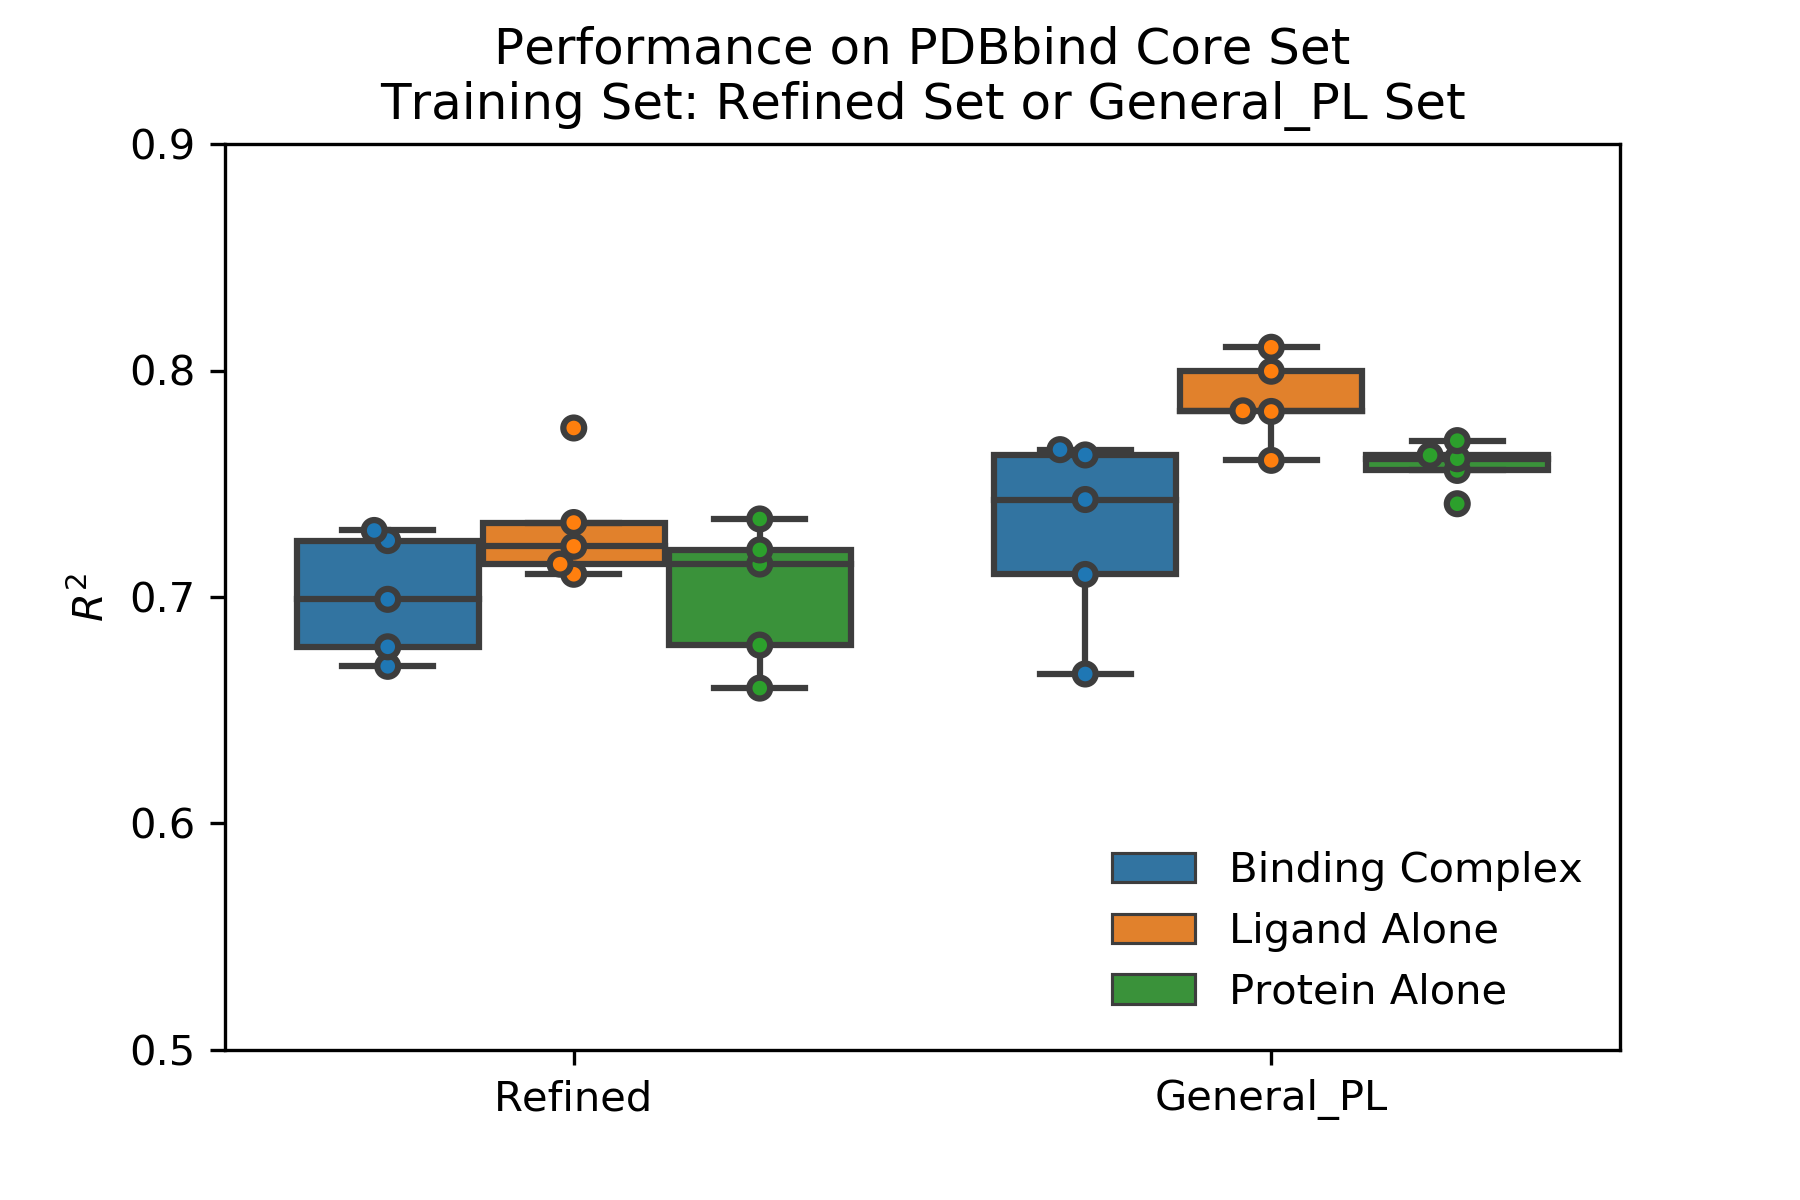
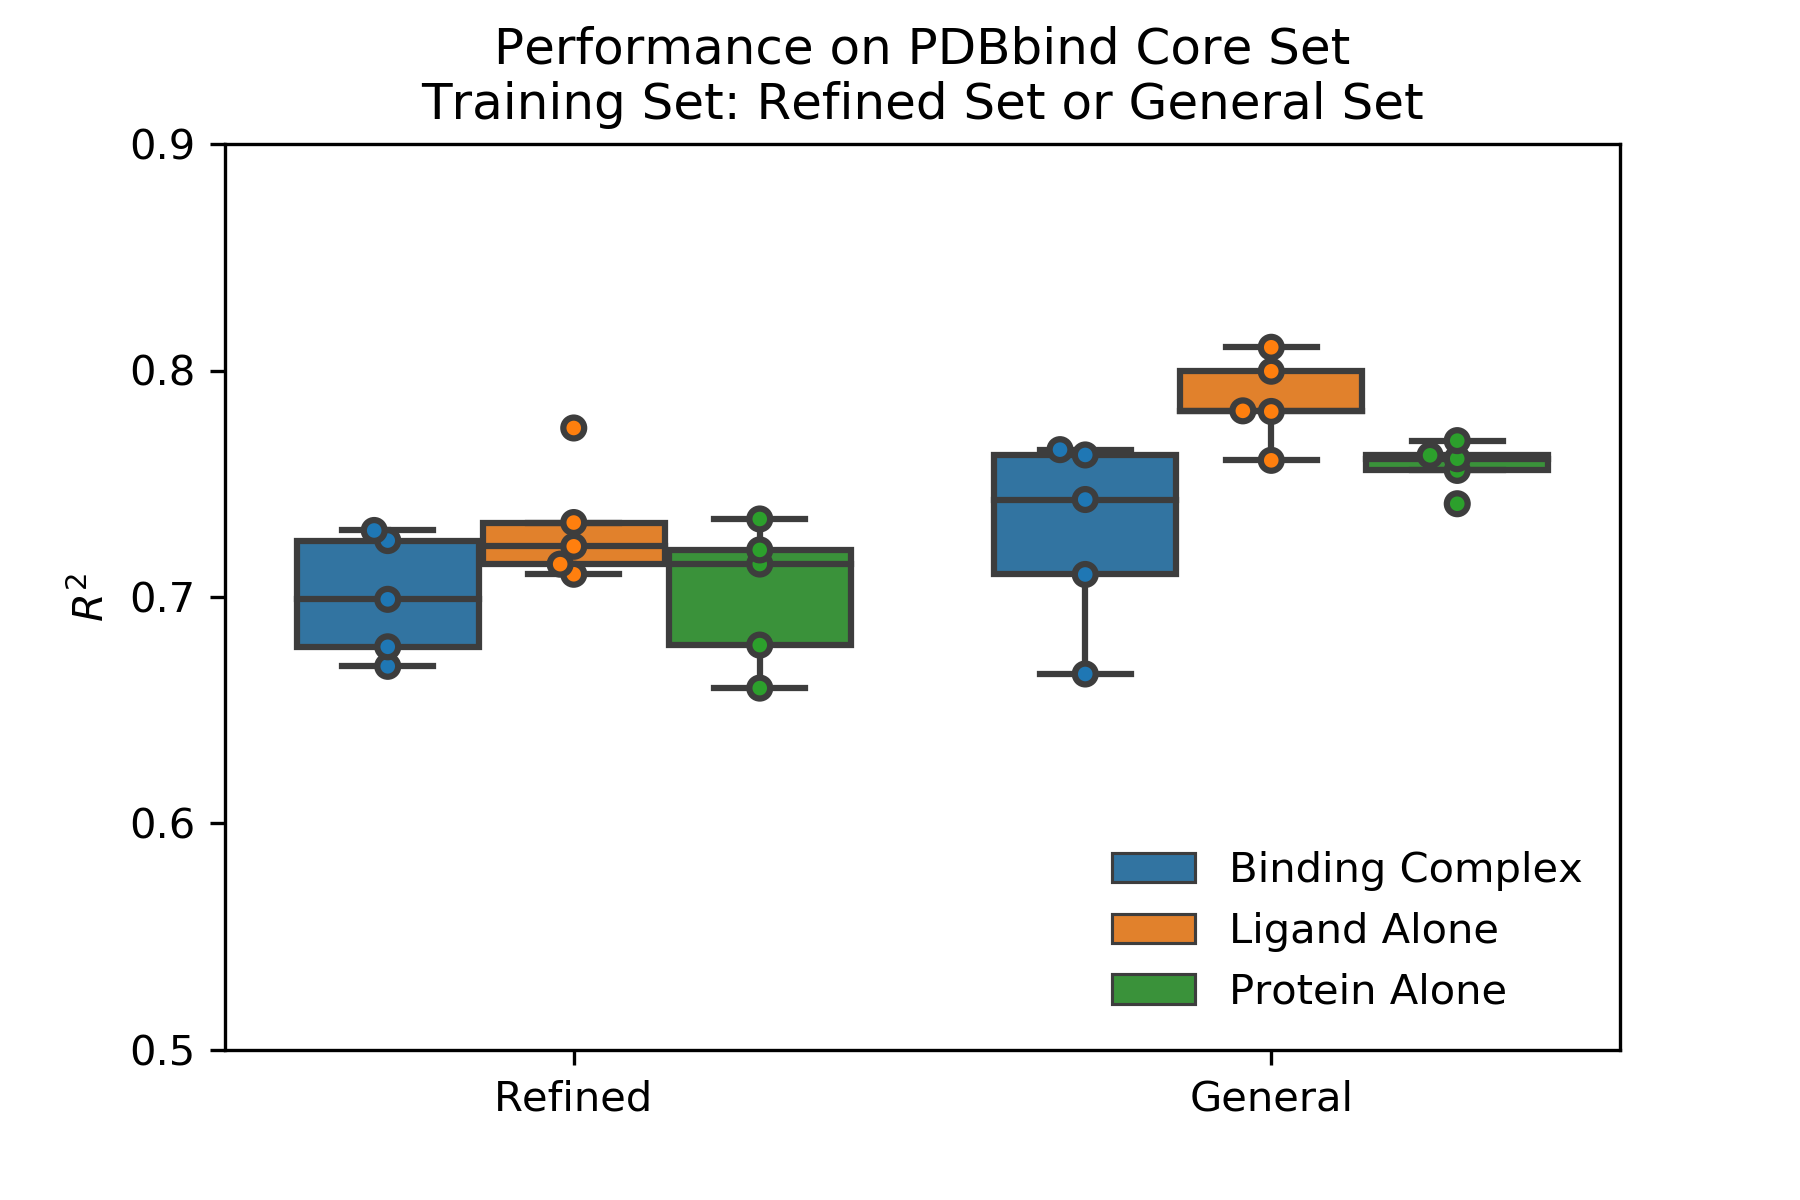
replace 'general_PL with General, only update figures needed for manuscript

Changed region(s): [[0.2178, 0.0617, 0.8089, 0.1233], [0.6222, 0.8942, 0.7778, 0.925]]

diff --git a/pdbbind/pred_core.figures/box.py b/pdbbind/pred_core.figures/box.py
@@ -22,7 +22,7 @@ df.tail()
 components = ['binding', 'ligand', 'protein']
 cpn_names = ['Binding Complex', 'Ligand Alone', 'Protein Alone']
 subsets = ['refined', 'general_PL']
-subset_names = ['Refined', 'General_PL']
+subset_names = ['Refined', 'General']
 
 # splits = ['random', 'fingerprint', 'sequence']
 # split_names = ['random splitting', 'fingerprint splitting', 'sequence splitting']
@@ -95,7 +95,7 @@ for metric, metric_name in zip(metrics, metric_names):
         ax.set_title(
             # f'ACNN performance on PDBbind {version} core subset\nwith {split_name}'
             f'Performance on PDBbind Core Set\n'
-            f'Training Set: Refined Set or General_PL Set')
+            f'Training Set: Refined Set or General Set')
         ax.set_yticks(np.linspace(0, 1, 11))
         ax.set_ylim([0.5, 0.9])
         fig.savefig(root / f"{version}.{split}.{metric}.png", dpi=300)

diff --git a/pdbbind/self.figures/box.py b/pdbbind/self.figures/box.py
@@ -23,7 +23,7 @@ df.tail()
 components = ['binding', 'ligand', 'protein']
 cpn_names = ['Binding Complex', 'Ligand Alone', 'Protein Alone']
 subsets = ['core', 'refined', 'general_PL']
-subset_names = ['Core', 'Refined', 'General_PL']
+subset_names = ['Core', 'Refined', 'General']
 # splits = ['random', 'fingerprint', 'sequence']
 # split_names = ['random splitting', 'fingerprint splitting', 'sequence splitting']
 
